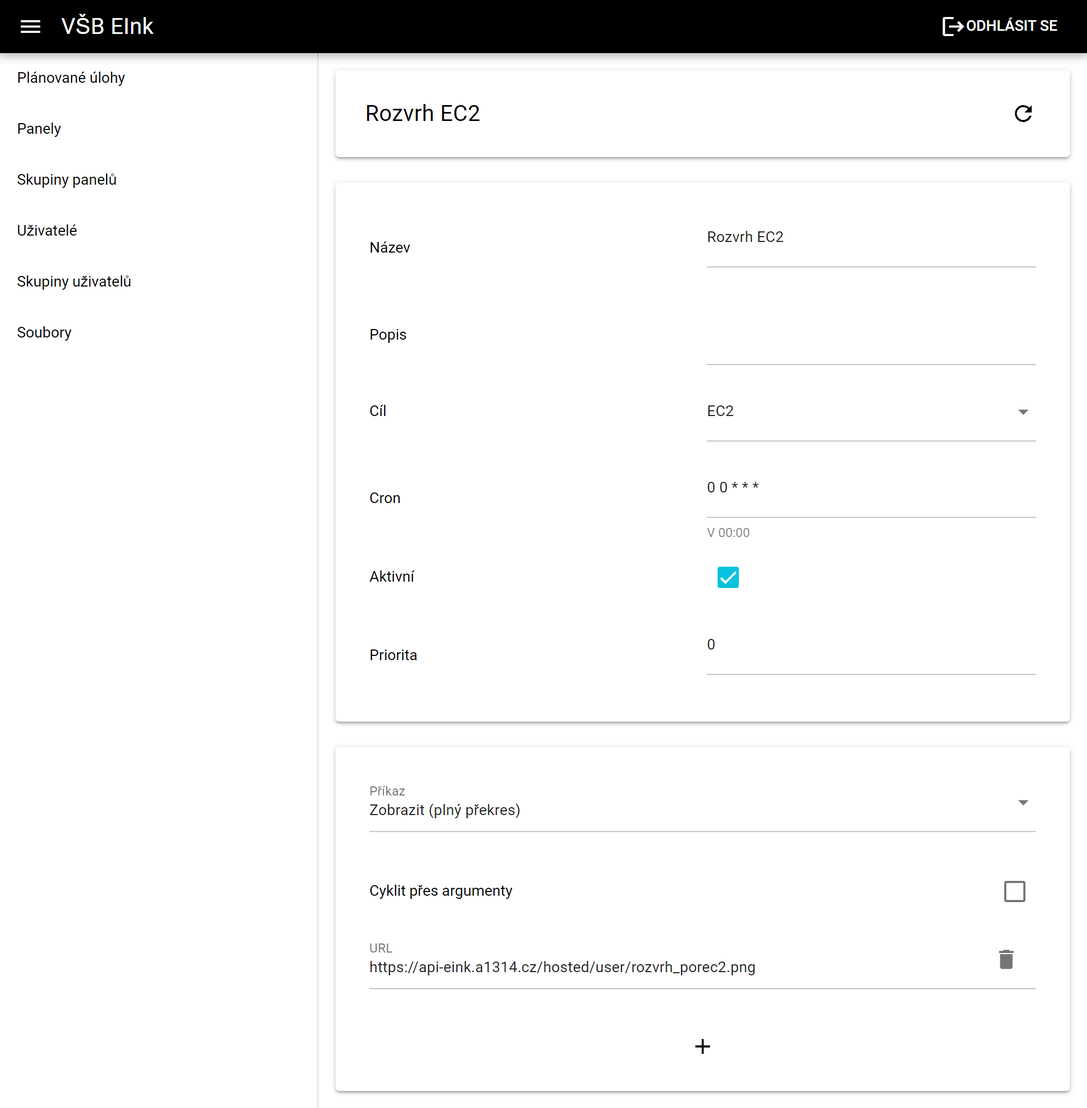
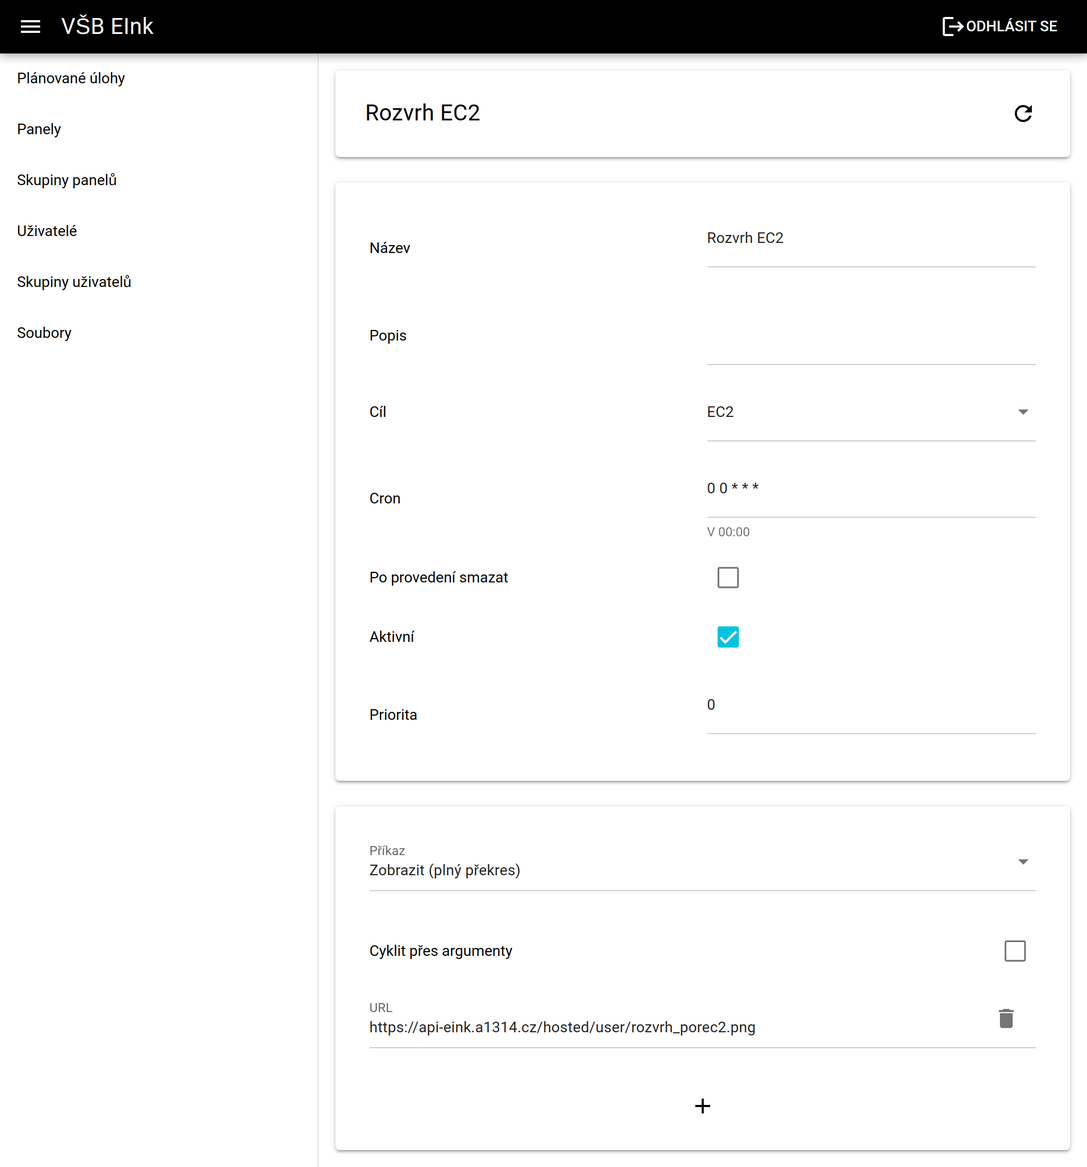
Updates from Overleaf

diff --git a/Kapitoly/Navrh_systemu.tex b/Kapitoly/Navrh_systemu.tex
@@ -16,7 +16,7 @@ Má první seriozní implementace systému, pojmenovaná po softwarové inžený
         \node (server) [rect]  {server};
         \node (panel) [rect, below left of=server] {panel};
         \node (klient) [rect, below right of=server] {klient};
-        \draw[->] (panel) -- (server) node[midway, left] {websocket};
+        \draw[<->] (panel) -- (server) node[midway, left] {websocket};
         \draw[->] (klient) -- (server) node[midway, right] {http};
     \end{tikzpicture}
     \caption{Diagram architektury první verze systému}
@@ -78,10 +78,10 @@ Při rozbalování dat zakódovaného obrázku šlo číst pixely postupně z ja
 \subsubsection{Panel}
 Architektura vláken a smyčky zůstala zachována. Změnil se hlavně způsob odbavení zpráv. Při velikosti 396 kB na zprávu bylo jisté, že systém takovou zprávu rozdělí na mnoho částí a ty pošle do zaregistrovaného handleru. V centrálním handleru byl udržován stav, jaká zpráva je odbavována a jaký měla typ dle její hlavičky při prvním přijetí. Do smyčky událostí poté byl odeslán upravený paket bez hlavičky. Jednotlivé koncové handlery pak byly zodpovědné za postupné zpracování přijatých dat.
 
-Mimo změny v kódování zpráv byl rozšířen slovník příkazů, na které panel dokáže reagovat. Především to bylo rozšíření o možnost úpravy persistentní konfigurace sítě. Panel už nepracoval s napevno zabudovanými údaji, ale ukládal si je do oddílu nevolatilní paměti. Obraz firmwaru byl stejný mezi všemi panely, při provizi panelu se po flashnutí firmwaru flashnul ještě obraz oddílu NVS, který panelu dodal jeho specifické konfigurační údaje, jako je SSID, heslo k Wi-Fi a adresa WebSocket serveru.
+Mimo změny v kódování zpráv byl rozšířen slovník příkazů, na které panel dokáže reagovat. Především to bylo rozšíření o možnost úpravy persistentní konfigurace sítě. Panel už nepracoval s napevno zabudovanými údaji, ale ukládal si je do oddílu nevolatilní paměti. Obraz firmwaru byl stejný mezi všemi panely. Při provizi panelu byl do zařízení nahrán obraz oddílu NVS, který panelu dodal jeho specifické konfigurační údaje, jako je SSID, heslo k Wi-Fi a adresa WebSocket serveru.
 
 \subsubsection{Server}
-Server byl přepsán, byť technologie byly zachovány. Z hlediska API umožňoval cílit na specifické panely a požadavky byly zabezpečeny API klíčem. Rozhraní pro klienta a panel již nebylo stejné a tam, kde server komunikoval s panely pomocí binárních zpráv, měl klient k dispozici běžné REST JSON API. Ukázka klientského požadavku pro vykreslení obrázku pomocí částečného překreslení je vidět na figuře \ref{src:gateway-rest-api}.
+Server byl přepsán, byť technologie byly zachovány. Z hlediska API umožňoval cílit na specifické panely a požadavky byly zabezpečeny API klíčem. Rozhraní pro klienta a panel již nebylo stejné a tam, kde server komunikoval s panely pomocí binárních zpráv, měl klient k dispozici běžné REST JSON API. Ukázka klientského požadavku pro vykreslení obrázku pomocí částečného překreslení je vidět na ukázce \ref{src:gateway-rest-api}.
 
 \begin{lstlisting}[label=src:gateway-rest-api,caption={Požadavek na server pro částečné překreslení obrázku ve verzi Birnárních zpráv}]
 POST /api/panels/a1314/commands/display
@@ -90,7 +90,7 @@ POST /api/panels/a1314/commands/display
 
 Obrázky byly zpracovány na serveru převodem do barvy dle žádaného režimu a byl na nich proveden tzv. dithering, tedy proces, který převádí intenzitu odstínu na hustotu pixelů \cite{Dithering}. V praxi se jedná o snížení barevné hloubky při zachování vizuálních kvalit obrazu. Pro svou relativní jednoduchost a výslednou podobu jsem zvolil Floyd-Steinbergovu metodu\cite{knuthDigitalHalftonesDot1987}\cite{hellandImageDitheringEleven2012}.
 
-\subsubsection{Klient}
+\subsubsection{Klient}\label{eink-gateway-cli}
 K této verzi byla vyvinuta i terminálová aplikace v jazyce Python. Podporovala jak lokální, tak vzdálené obrázky, autentizaci API klíčem a odeslání nové konfigurace panelu.
 
 \begin{lstlisting}[label=src:eink-gateway-cli,caption={Ukázka programu eink-gateway-cli pro odeslání obrázku na panel}]
@@ -105,11 +105,11 @@ V ukázce \ref{src:eink-gateway-cli} je znázorněna práce s programem \lstinli
 I přesto, že tato varianta byla relativně robustní, kladla příliš vysoké nároky na komplexitu logiky serveru. Kód serveru vlastně implementoval vlastní broker zpráv, jen hůře než existující řešení na trhu, jako jsou např. NATS\cite{NATSIo}, RabbitMQ\cite{RabbitMQOneBroker} nebo Redis\cite{RedisRealtimeData}. Pro udržitelnost projektu jsem hledal jiné řešení.
 
 \subsection{Crontab}
-Jedna z variant implementace plánování odesílání obsahu byla založena na linuxové službě \lstinline|cron|. Varianta měla umožnit správu plánování jak ručně pomocí unixových příkazů, tak na dálku pomocí webového rozhraní.
+Jedna z variant implementace plánování odesílání obsahu byla založena na linuxové službě \lstinline|cron|. Varianta měla umožnit správu plánování jak ručně pomocí unixových příkazů, tak na dálku pomocí webového rozhraní. Varianta se překrývá s finálním návrhem z hlediska strany panelu a komunikačního protokolu. Byl vytvořen shellový skript, který po spuštění vykreslil HTML soubor do souboru, který byl poté odeslán na seznam panelů pomocí upravené verze \lstinline|eink-gateway-cli|(\ref{eink-gateway-cli}). Skript byl zaregistrován ve službě \lstinline|cron|.
 
-Cron, respektive jeho implementace Vixie Cron, nenabízí jednoduchou a spolehlivou možnost spustit jen jeden příkaz v jeden moment. Pro plánování zobrazení obsahu je zapotřebí prioritizace pravidel rozpisu a zamezení odeslání více příkazů pro stejný panel naráz. Pokusil jsem se tedy vytvořit vlastní implementaci plánovače, který by pracoval se souborem kompatibilním s nástrojem Vixie Cron. Priorita byla určena podle pořadí řádku v souboru. Čím vyšší pořadí, tím nižší priorita.
+Cron, respektive jeho implementace Vixie Cron, však nenabízí jednoduchou a spolehlivou možnost spustit jen jeden příkaz v jeden moment. Pro plánování zobrazení obsahu je zapotřebí prioritizace pravidel rozpisu a zamezení odeslání více příkazů pro stejný panel naráz. Pokusil jsem se tedy vytvořit vlastní implementaci plánovače, který by pracoval se souborem kompatibilním s nástrojem Vixie Cron. Priorita byla určena podle pořadí řádku v souboru. Čím vyšší pořadí, tím nižší priorita.
 
-Pro ruční konfiguraci byla varianta jednoduchá a spolehlivá.
+Pro ruční konfiguraci byla varianta jednoduchá a spolehlivá. Terminálová aplikace použitá pro komunikaci s panelem byla rozšířena a je použitelná i ve finální variantě systému \cite{VsbeinkVsbeinkmqttgwcli}.
 
 \subsubsection{Problémy implementace}
 Hlavním problémem byla textová podoba seznamu plánovaných úkolů. Tím, že měla udržet kompatibilitu se souborem \lstinline|crontab| a zároveň bylo nutné podporovat komentáře pro uložení popisu či jen pro orientační účely, programatická úprava byla komplikovaná neúměrně zadání. Řešení vyžadovalo opakované parsování souboru, ruční synchronizaci zápisu/čtení obsahu a riskování, že po manuálním zásahu bude soubor trvale poškozen. Dále by bylo nutné se zbavit samostatných komentářů a prázdných řádků, čímž by se razantně snížila čitelnost souboru.

diff --git a/Kapitoly/Implementace/Implementace_serveru.tex b/Kapitoly/Implementace/Implementace_serveru.tex
@@ -44,7 +44,7 @@ Server je implementován jako skupina služeb komunikující mezi sebou pomocí 
 
 \subsection{Scheduler}
 \subsubsection{Datový model}
-Data jsou ukládána lokálně v SQLite databázi. Schéma, migrace a ORM klient jsou spravovány pomocí nástroje Prisma. Služba pracuje jen s jedinou tabulkou \lstinline|EInkJob|, na které každý záznam označuje jeden naplánovaný úkol. Z atributů je důležité zmínit \lstinline|content|, který označuje seznam argumentů příkazu odeslaný jako obsah zprávy. Ten je ukládán jako řetězec a aplikace je zodpovědná za jeho dekódování při čtení a kódování při zápisu. \lstinline|precise| označuje preciznost rozlišení výrazu cron, zda obsahuje sloupec vteřin či ne. \lstinline|shouldCycle| označuje, jakým způsobem má být vybrán argument příkazu. \lstinline|priority| označuje prioritu úkolu, čím vyšší číslo, tím vyšší priorita. \lstinline|disabled| umožňuje úkol deaktivovat, čímž zůstane uložen v databázi, ale není nikdy vykonán. Schéma tabulky je přiloženo v ukázce \ref{src:scheduler-schema}.
+Data jsou ukládána lokálně v SQLite databázi. Schéma, migrace a ORM klient jsou spravovány pomocí nástroje Prisma. Služba pracuje jen s jedinou tabulkou \lstinline|EInkJob|, na které každý záznam označuje jeden naplánovaný úkol. Z atributů je důležité zmínit \lstinline|content|, který označuje seznam argumentů příkazu odeslaný jako obsah zprávy. Ten je ukládán jako řetězec a aplikace je zodpovědná za jeho dekódování při čtení a kódování při zápisu. \lstinline|precise| označuje preciznost rozlišení výrazu cron, zda obsahuje sloupec vteřin či ne. \lstinline|shouldCycle| označuje, jakým způsobem má být vybrán argument příkazu. \lstinline|priority| označuje prioritu úkolu, čím vyšší číslo, tím vyšší priorita. \lstinline|disabled| umožňuje úkol deaktivovat, čímž zůstane uložen v databázi, ale není nikdy vykonán. \lstinline|oneShot| označuje úkol jako jednorázový. Schéma tabulky je přiloženo v ukázce \ref{src:scheduler-schema}.
 
 \begin{lstlisting}[label=src:scheduler-schema,caption={Datové schéma třídy EInkJob}]
 model EInkJob {
@@ -60,6 +60,7 @@ model EInkJob {
   cycle       Int     @default(0)
   shouldCycle Boolean @default(false)
   disabled    Boolean @default(false)
+  oneShot     Boolean @default(false)
   @@unique([target, cron])
 }
 \end{lstlisting}
@@ -72,6 +73,8 @@ Plánovač každou vteřinu prochází seznam naplánovaných úkolů. U každé
 Při dotazu na získání seznamu úkolů je zohledněna preciznost úkolu, priorita a stav aktivace. Výsledky jsou seřazeny nejdříve podle preciznosti vzestupně, poté dle priority sestupně a dle identifikátoru cíle opět vzestupně. Preciznost je brána podle rozlišení výrazu cron, ne však podle přenosti spuštění. Výsledky s nižší precizností jsou spuštěny před výsledky s precizností nižší protože u nich uživatel očekává spuštění v daný čas, protože mají nižší frekvenci opakování. Tato volba je otevřena diskuzi.
 
 Zpráva je publikována pod topikem \lstinline|vsb-eink/{target}/{command}| s tím, že proměnné \lstinline{target} a \lstinline{command} jsou přímo převzaté z položky úkolu z databáze. Pokud je atribut \lstinline{isCyclable} nastaven na \lstinline{true}, tělem zprávy je hodnota na pozici \lstinline{cycle} ze seznamu argumentů příkazu z atributu \lstinline{content} úkolu. V případě, že je hodnota atributu \lstinline{isCyclable} \lstinline{false}, je tělem zprávy první argument ze seznamu. Pokud úkol žadné argumenty nemá, je tělem zprávy prázdný řetězec.
+
+Pokud je hodnota atributu \lstinline|oneShot| pravdivá, je aktuální úkol odebrán z databáze po jeho prvním vykonání. Speciálním případem jsou cyklické úkoly (\lstinline|isCyclable|), které jsou mazány až po provedení jejich posledního cyklu.
 
 \subsubsection{REST API služby Scheduler}
 \paragraph*{/jobs} Endpoint pro CRUD operace nad tabulkou entit \lstinline{EInkJob}. Úkoly lze filtrovat podle atributů \lstinline{target}, \lstinline{precise} a \lstinline{disabled}. Pro účely mazání více úkolů najednou je při použití metody DELETE možné specifikovat více úkolů najednou query parametrem \lstinline{ids}.
@@ -101,9 +104,6 @@ Pokud soubor končí příponou \lstinline|.mts|, \lstinline|.ts|, \lstinline|.m
 API je rozděleno na části, \lstinline|/core| a \lstinline|/user|. \lstinline|/core| je určen pro správu hostovaných souborů a očekává se určitý způsob autorizace požadavků. \lstinline|/user| je naopak určen pro neautorizované požadavky s širším okruhem použití.
 
 \paragraph*{/user/\{path\}} Hostuje statické i dynamické uživatelské soubory. Statické soubory s prefixem \lstinline{_} jsou považovány za soukromé a server při požadavku na ně vrátí status 404.
-
-\paragraph*{/core/proxy/\{url\}}
-Pomocný endpoint pro přístup k externím zdrojům, které by za normálních okolností nebyly přístupné. Vhodný například pro načítání externích API bez potřebných CORS hlaviček z HTML stránek vykreslovaných službou Renderer.
 
 \paragraph*{/core/files/\{path\}}
 Provádí CRUD operace nad uživatelskými soubory. Pro vkládání souborů je očekáván typ \lstinline|multipart/form-data| a lze nahrávat více souborů naráz. Složky lze vytvořit metodami POST/PUT a parametrem \lstinline|path| s cestou nové složky. Endpoint nazpět odpovídá typem \lstinline|application/json|. Příklad odpovědi je uveden v ukázce \ref{src:get-files-response}.

diff --git a/Kapitoly/Implementace/Implementace_panelu.tex b/Kapitoly/Implementace/Implementace_panelu.tex
@@ -91,7 +91,7 @@ Při sestavování jsou zde očekávány soubory klíčů sloužící k podpisu 
 \end{itemize}
 
 \subsection{Konfigurace programu}\label{konfigurace-panelu}
-Program používá k uložení konfigurace knihovnu NVS z prostředí ESP-IDF. Ta pro ukládání dat používání část hlavní flashové paměti kontroleru. Oddíl, který se má použít pro ukládání dat je označen značkou \lstinline|nvs| v tabulce oddílů. Data jsou ukládána po párech klíč-hodnota a hodnota je přitom bezpečně typována \cite{NonVolatileStorageLibrary}.
+Program používá k uložení konfigurace knihovnu NVS z prostředí ESP-IDF. Ta pro ukládání dat používá část hlavní flashové paměti kontroleru. Oddíl, který se má použít pro ukládání dat je označen značkou \lstinline|nvs| v tabulce oddílů. Data jsou ukládána po párech klíč-hodnota a hodnota je přitom bezpečně typována \cite{NonVolatileStorageLibrary}.
 
 Konfigurovatelné jsou tyto hodnoty:
 \begin{itemize}
@@ -149,7 +149,7 @@ Pro detekci událostí je vytvořen jednoduchý automat, který udržuje stav tl
 Alternativa předchozí zprávy, která identifikátor události předává místo těla v topiku zprávy.
 
 \paragraph*{SUB vsb-eink/\{panel\_id\}/display/raw\_1bpp/set}
-Obsahuje binární podobu obrázku, který se má vykreslit na displej částečným překreslením. Každé desáté vykreslení způsobí plné překreslení kvůli prodloužení života displeje.
+Obsahuje binární podobu obrázku, který se má vykreslit na displej částečným překreslením. Každé desáté vykreslení způsobí plné překreslení kvůli prodloužení životnosti displeje.
 
 Interně nazvaný formát raw 1bpp je inspirovaný formátem BMP. Každý pixel je reprezentován 1 bitem. Pixely jsou baleny po skupinách osmi pixelů do jednoho bajtu. Pixel nejvíce nalevo je uložen v nejvyšším bitu. Mezi řádky obrázku není žádný oddělovač a pro dekódování je nutné znát rozlišení obrázku dopředu. Po obdržení zprávy si panel ověří očekávanou a skutečnou velikost přijatého obrázku V případě, že se velikosti neshodují, přijatou zprávu ignoruje.
 
@@ -301,7 +301,7 @@ Každou sekundu odesílaná zpráva o stavu systému. Obsahuje název sítě Wi-
 Ukázka \ref{src:example-system-status} zobrazuje obsah zprávy z topiku \lstinline|vsb-eink/{panel_id}/system| z panelu s firmwarem verze \verb|2.1.3|.
 
 \subsection{Modifikace Inkplate ESP-IDF}
-Při vývoji s Inkplate ESP-IDF jsem narazil na několik nedostatků, které mn donutily nedostatky konzultovat s jejím vývojářem a některé jsem sám opravil ve vlastním forku \cite{TajnymagESPIDFInkPlateESPIDFInkPlate}. Ten jsem do projektu zakomponoval jako git submodul ve složce \verb|components/inkplate|.
+Při vývoji s Inkplate ESP-IDF jsem narazil na několik nedostatků, které mne donutily nedostatky konzultovat s jejím vývojářem a některé jsem sám opravil ve vlastním forku \cite{TajnymagESPIDFInkPlateESPIDFInkPlate}. Ten jsem do projektu zakomponoval jako git submodul ve složce \verb|components/inkplate|.
 
 \subsubsection{Závislost na platformě PlatformIO} Původní verze Inkplate ESP-IDF byla připravena pro integraci v platformě PlatformIO. Ta slouží jako nástroj usnadňující práci s vývojovými prostředími embedded systémů. Sjednocuje tak příkazy pro inicializaci správné verze prostředí, konfiguraci parametrů desky, sestavení, flash apod \cite{WhatPlatformIOPlatformIO}. V době, kdy jsem ale projekt zakládal, nepodporovalo PlatformIO IDF verze 5.0 a nefungovala mi její integrace v prostředí editoru CLion. Naštěstí bylo potřeba jen vytvořit soubor \lstinline|CMakeLists.txt| registrující knihovnu jako komponentu ESP-IDF a zdokumentovat ruční instalaci knihovny do existujících ESP-IDF projektů.
 

diff --git a/Kapitoly/Hardware_a_prostredi.tex b/Kapitoly/Hardware_a_prostredi.tex
@@ -100,7 +100,7 @@ void setup() {
 }
 \end{lstlisting}
 
-V ukázce \ref{src:arduino-hello-world} je znázorněn minimalistický program sloužící k ilustraci syntaxe knihovny Inkplate Arduino. Program nejprve inicializuje ovladač panelu a vyčistí displej a jeho buffer. Poté vykreslí černou kružnici se středem v souřadnicích x=600px, y=412px a poloměrem 75px. Pod kružnici je vykreseln text ,,Hello, world!".
+V ukázce \ref{src:arduino-hello-world} je znázorněn minimalistický program sloužící k ilustraci syntaxe knihovny Inkplate Arduino. Program nejprve inicializuje ovladač panelu a vyčistí displej a jeho buffer. Poté vykreslí černou kružnici se středem v souřadnicích x=600px, y=412px a poloměrem 75px. Pod kružnici je vykreslen text ,,Hello, world!".
 
 \subsubsection{Inkplate MicroPython}
 Druhá knihovna je určena pro firmware postavený na projektu MicroPython. Jedná se o kompilátor a běhové prostředí implementující programovací jazyk Python 3 optimalizované pro běh na mikrokontrolerech a v omezených prostředích. Snaží se být kompatibilní s běžnými desktopovými verzemi Pythonu. Nabízí tak interaktivní příkazovou řádku, správu výjimek, výpočty s libovolnou přesností, věstavěný souborový systém \cite{MicroPythonPythonMicrocontrollers}.
@@ -164,7 +164,7 @@ Třetí oficiálně doporučenou knihovnou je Inkplate ESP-IDF. Ta však není v
 
 Port vznikl pro účely Turcottova projeku čtečky elektronických knih. Čtečka byla určena pro osobou mu blízkou, která po úrazu utrpěla poranění míchy a zůstala upoutána na lůžku jen s omezeným pohybem končetin. Turcott jí symbolicky projekt věnoval, po její smrti na Covid-19, koncem roku 2020 \cite{turcotteTurgu1EPubInkPlate2024}.
 
-Na této knihovně mám částečný podíl i já, protože jsem si ji zvolil jako výchozí knihovnu pro interakci se zapůjčeným panel v rámci této práce a do upstreamu se dostalo pár změn, které jsem připravil ve forku, použitém ve výsledném projektu.
+Na této knihovně mám částečný podíl i já, protože jsem si ji zvolil jako výchozí knihovnu pro interakci se zapůjčeným panel v rámci této práce a do upstreamu se dostalo pár změn, které jsem připravil ve forku, použitém ve výsledném projektu \cite{TajnymagESPIDFInkPlateESPIDFInkPlate}.
 
 \begin{lstlisting}[label=src:esp-idf-hello-world,language=C++,caption={Ilustrační použití knihovny Inkplate ESP-IDF}]
 #include "inkplate.hpp"

diff --git a/Kapitoly/Budouci_vyvoj.tex b/Kapitoly/Budouci_vyvoj.tex
@@ -1,0 +1,12 @@
+\chapter{Budoucí vývoj}
+
+\section{Přechod na Inkplate Arduino}
+Přestože knihovna Inkplate ESP-IDF funguje bez vážných problémů, její vývoj je náročný bez znalosti interní komunikace mezi ESP32 a e-ink displejem. Pro budoucí vývoj by bylo vhodné přejít na knihovnu Inkplate Arduino skrze integraci Arduino Core do ESP-IDF. Tím by bylo možné využít oficiálních záplat od výrobce a získat podporu i pro novější verze panelů Inkplate.
+
+\section{Rozšíření MQTT komunikace}
+Komunikace mezi MQTT klienty by v budoucnu měla být zabezpečena pomocí certifikátu TLS. Tím by byla zajištěna bezpečnost komunikace bez možnosti falšování zpráv nepověřenými stranami. Alternativou je omezení přístupu na základě IP adresy klientů. 
+
+K rozšíření možností MQTT API lze přejít na novější verzi MQTTv5. Tato verze přidává dodatečné informace ke zprávám díky funkcionalitě „User Properties“. Tato funkce rozšiřuje možnosti aplikací pro přenos bohatšího kontextu bez potřeby úprav payloadu či topiku. Metadata by mohla například obsahovat identifikátor odesílatele či podrobnější informace o rozlišení cílového obrázku. MQTTv5 též zlepšuje zpracování chyb a diagnostiku problémů pomocí specifických návratových kódů zpráv \cite{IntroductionMQTTProtocol2019}.
+
+\section{Stav připojených panelů}
+Systém nabízí monitoring stavu připojených panelů pouze skrze zprávy MQTT. Nabízí se vytvořit novou službu, která by stav panelů monitorovala. Tento stav by poté byl skrze REST API dostupný ve službě Facade a následně ve webovém rozhraní.

diff --git a/EInk_Jako_Informacni_Panel.tex b/EInk_Jako_Informacni_Panel.tex
@@ -85,7 +85,7 @@
 \input{Kapitoly/Implementace}
 \input{Kapitoly/Nasazeni}
 \input{Kapitoly/Testovani}
-\input{Kapitoly/Budouci_vyzvy}
+\input{Kapitoly/Budouci_vyvoj}
 
 \input{Kapitoly/Zaver}
 
@@ -105,25 +105,25 @@
 \label{appendix:app-screenshots}
 \begin{figure}[h]
     \centering
-    \includegraphics[width=0.8\textwidth]{Obrazky/aplikace/eink.a1314.cz_hosted.png}
+    \includegraphics[width=\textwidth]{Obrazky/aplikace/eink.a1314.cz_hosted.png}
     \caption{Obrazovka seznamu uživatelských souborů}
     \label{fig:hosted-view}
 \end{figure}
 \begin{figure}[h]
     \centering
-    \includegraphics[width=0.8\textwidth]{Obrazky/aplikace/eink.a1314.cz_login.png}
+    \includegraphics[width=\textwidth]{Obrazky/aplikace/eink.a1314.cz_login.png}
     \caption{Obrazovka přihlášení}
     \label{fig:login-view}
 \end{figure}
 \begin{figure}[h]
     \centering
-    \includegraphics[width=0.8\textwidth]{Obrazky/aplikace/eink.a1314.cz_schedule.png}
+    \includegraphics[width=\textwidth]{Obrazky/aplikace/eink.a1314.cz_schedule.png}
     \caption{Obrazovka detailu plánovaného úkolu}
     \label{fig:schedule-view}
 \end{figure}
 \begin{figure}[h]
     \centering
-    \includegraphics[width=0.8\textwidth]{Obrazky/aplikace/eink.a1314.cz_usergroup.png}
+    \includegraphics[width=\textwidth]{Obrazky/aplikace/eink.a1314.cz_usergroup.png}
     \caption{Obrazovka detailu uživatelské skupiny}
     \label{fig:usergroup-view}
 \end{figure}

diff --git a/Kapitoly/Zaver.tex b/Kapitoly/Zaver.tex
@@ -15,9 +15,10 @@ V rámci testování se ukázaly nedostatky v efektivitě některých služeb, z
 Osobně plánuji pokračovat ve vývoji systému i nadále. Panel Inkplate 10 si hodlám pořídit pro soukromé účely a chci jej využít jako obrazovku pro zobrazení dat služby Home Assistant\cite{HomeassistantCoreHouse_with_garden}.
 
 \newpage
-Projekt je vyvíjen otevřeně na platformě GitHub pod organizací \href{https://github.com/vsb-eink/}{VŠB-EInk}.
+Projekt je vyvíjen otevřeně na platformě GitHub pod organizací VŠB-EInk.
 \begin{table}[h]
     \begin{tabular}{ll}
+        Profil organizace & \url{https://github.com/vsb-eink} \\
         Monorepozitář serveru + aplikace & \url{https://github.com/vsb-eink/vsb-eink-services} \\
         Firmware panelu & \url{https://github.com/vsb-eink/vsb-eink-panel} \\
     \end{tabular}
